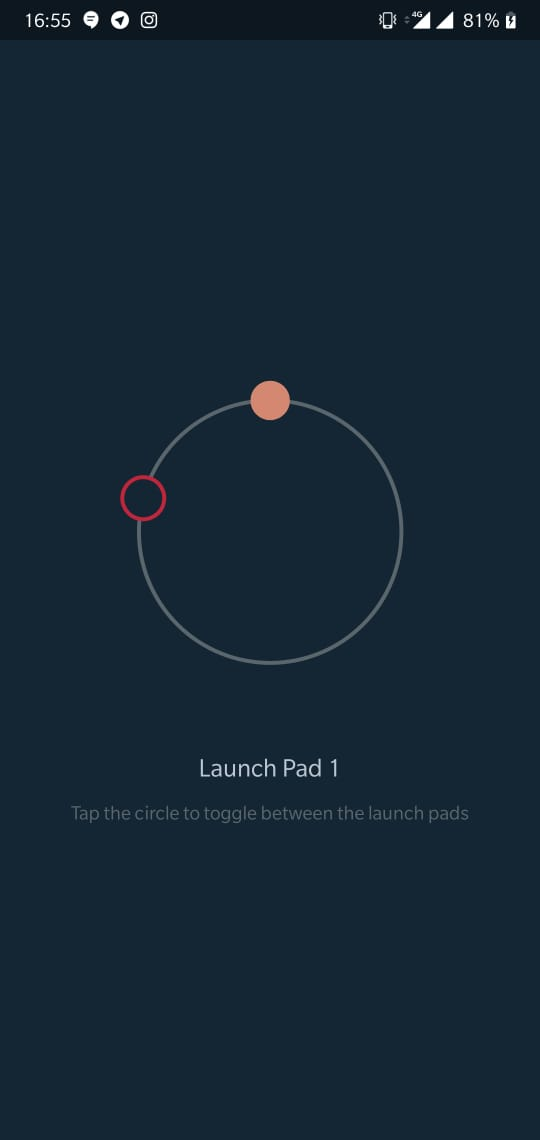
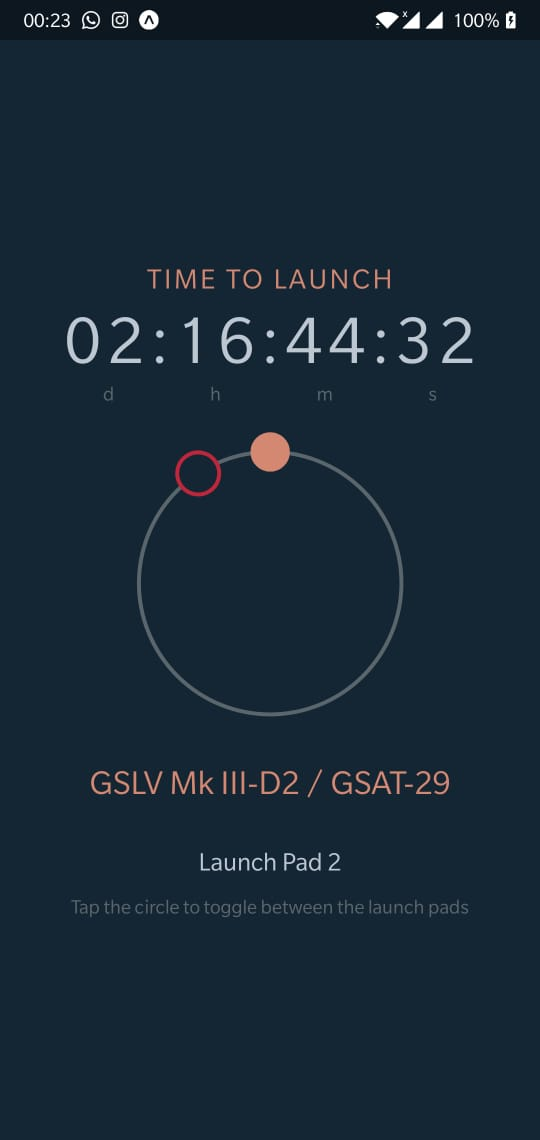
Use API for getting upcoming launch details

diff --git a/App.js b/App.js
@@ -2,7 +2,11 @@ import React, { Component } from 'react';
 import { Platform, Text, View, StyleSheet } from 'react-native';
 import { Constants, Location, Permissions } from 'expo';
 
+import { API_ENDPOINT } from 'react-native-dotenv';
+
 import Compass from './src/components/Compass';
+import Timer from './src/components/Timer';
+
 import getBearing from './src/utils/get-bearing';
 import launchPadCoords from './src/utils/launch-pads';
 
@@ -12,7 +16,9 @@ export default class App extends Component {
     currentForwardBearing: null,
     bearingToLaunchPad: null,
     errorMessage: null,
-    launchPad: 1
+    launchPad: 1,
+    launchTime: null,
+    name: null
   };
 
   componentDidMount() {
@@ -21,10 +27,26 @@ export default class App extends Component {
         errorMessage: 'Oops, this will not work on Sketch in an Android emulator. Try it on your device!'
       });
     } else {
+      this.getLaunchDetails();
       this.getLocationAsync();
       Location.watchHeadingAsync(this.handleHeading);
     }
   }
+
+  getLaunchDetails = async() => {
+    try {
+      let response = await fetch(`${API_ENDPOINT}/launch.js`);
+      let {
+        date,
+        launchPad,
+        name
+      } = await response.json();
+
+      this.setState({ launchTime: date, launchPad, name });
+    } catch(error) {
+      this.setState({ errorMessage: 'Could not fetch launch details' });
+    }
+  };
 
   getLocationAsync = async() => {
     let { status } = await Permissions.askAsync(Permissions.LOCATION);
@@ -70,20 +92,22 @@ export default class App extends Component {
     let text = 'Getting your location..';
     if (this.state.errorMessage) {
       text = this.state.errorMessage;
-    }
-
-    if (this.state.bearingToLaunchPad) {
+    } else if (this.state.bearingToLaunchPad) {
       text = `Launch Pad ${this.state.launchPad}`;
     }
 
     return (
       <View style={styles.container}>
+        <Timer launchTime={this.state.launchTime} />
+
         <Compass
           toggleLaunchPad={this.toggleLaunchPad}
           bearingToLaunchPad={this.state.bearingToLaunchPad}
           currentForwardBearing={this.state.currentForwardBearing} />
 
-        <Text style={styles.paragraph}>{text}</Text>
+        <Text style={styles.rocket}>{this.state.name}</Text>
+
+        <Text style={styles.launchPad}>{text}</Text>
 
         <Text style={styles.helperText}>Tap the circle to toggle between the launch pads</Text>
       </View>
@@ -99,7 +123,11 @@ const styles = StyleSheet.create({
     paddingTop: Constants.statusBarHeight,
     backgroundColor: '#142634'
   },
-  paragraph: {
+  rocket: {
+    fontSize: 24,
+    color: '#d48872'
+  },
+  launchPad: {
     marginTop: 32,
     fontSize: 18,
     textAlign: 'center',

diff --git a/src/components/Timer.js b/src/components/Timer.js
@@ -1,0 +1,60 @@
+import React, { Component, Fragment } from 'react';
+import { Text, StyleSheet } from 'react-native';
+
+import formatTimeDifference from './../utils/format-time-difference';
+
+export default class Timer extends Component {
+  state = {
+    currentTime: new Date
+  };
+
+  componentDidMount() {
+    this.timer = setInterval(
+      () => this.setState({ currentTime: new Date }),
+      1000
+    );
+  }
+
+  render() {
+    let afterLaunch;
+    let { currentTime } = this.state;
+    let launchTime = this.props.launchTime ? new Date(this.props.launchTime) : currentTime;
+    let countdown;
+    if (launchTime >= currentTime) {
+      countdown = launchTime - currentTime;
+    } else {
+      afterLaunch = true;
+      countdown = currentTime - launchTime;
+    }
+
+    return (
+      <Fragment>
+        <Text style={styles.caption}>
+          {afterLaunch ? 'TIME SINCE LAUNCH' : 'TIME TO LAUNCH'}
+        </Text>
+        <Text style={styles.timer}>{formatTimeDifference(countdown)}</Text>
+        <Text style={styles.legend}>d h m s</Text>
+      </Fragment>
+    );
+  }
+}
+
+const styles = StyleSheet.create({
+  timer: {
+    letterSpacing: 5,
+    fontSize: 48,
+    textAlign: 'center',
+    color: '#bdc7d1'
+  },
+  caption: {
+    fontSize: 20,
+    color: '#d48872',
+    letterSpacing: 2
+  },
+  legend: {
+    fontSize: 14,
+    letterSpacing: 35,
+    textAlign: 'center',
+    color: '#5a666b'
+  }
+});

diff --git a/src/utils/format-time-difference.js b/src/utils/format-time-difference.js
@@ -1,0 +1,37 @@
+export default function formatTimeDifference(milliseconds) {
+  // https://stackoverflow.com/a/13904120
+  let delta = milliseconds / 1000;
+
+  // calculate (and subtract) whole days
+  let days = Math.floor(delta / 86400);
+  delta -= days * 86400;
+
+  // calculate (and subtract) whole hours
+  let hours = Math.floor(delta / 3600) % 24;
+  delta -= hours * 3600;
+
+  // calculate (and subtract) whole minutes
+  let minutes = Math.floor(delta / 60) % 60;
+  delta -= minutes * 60;
+
+  // what's left is seconds
+  let seconds = Math.floor(delta % 60); 
+
+  if (days < 10) {
+    days = `0${days}`;
+  }
+
+  if (hours < 10) {
+    hours = `0${hours}`;
+  }
+
+  if (minutes < 10) {
+    minutes = `0${minutes}`;
+  }
+
+  if (seconds < 10) {
+    seconds = `0${seconds}`;
+  }
+
+  return `${days}:${hours}:${minutes}:${seconds}`;
+}

diff --git a/babel.config.js b/babel.config.js
@@ -1,6 +1,6 @@
 module.exports = function(api) {
   api.cache(true);
   return {
-    presets: ['babel-preset-expo'],
+    presets: ['babel-preset-expo', 'module:react-native-dotenv'],
   };
 };
